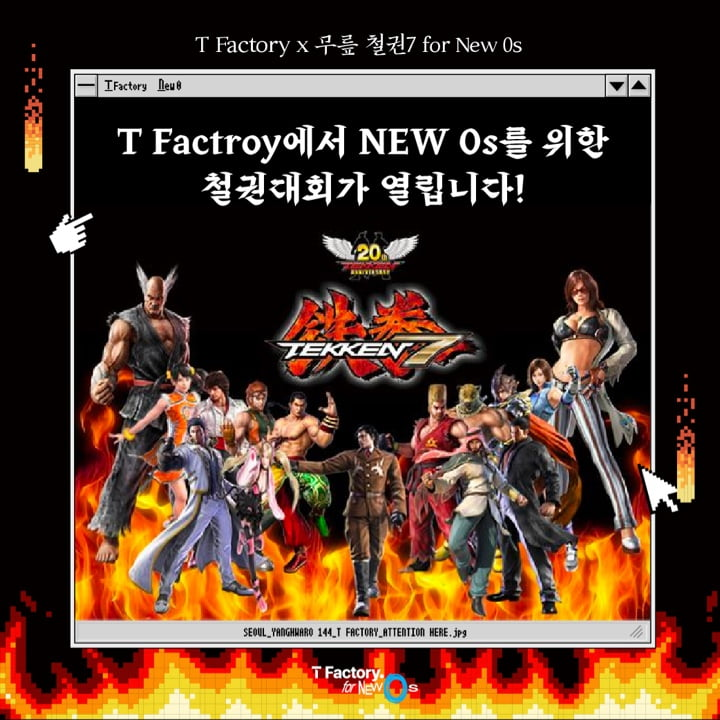
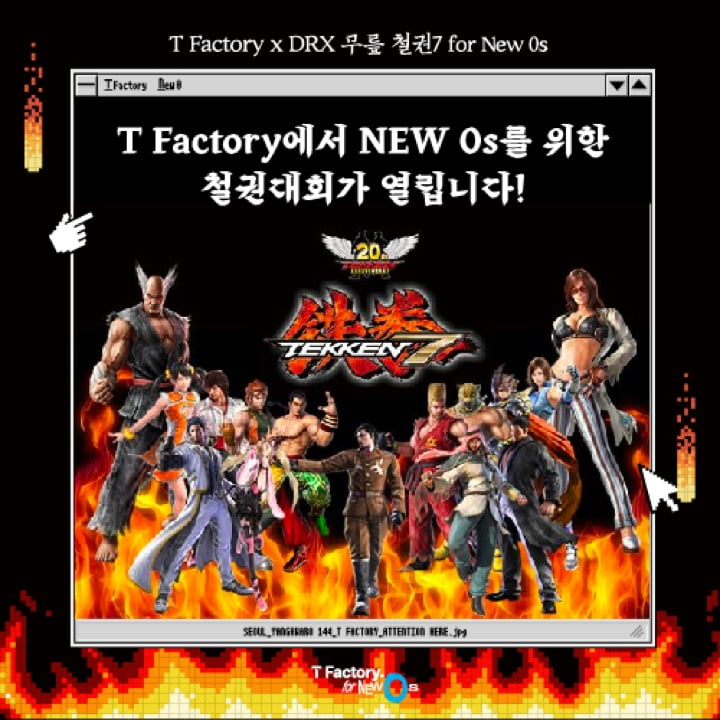
program 237, 238, 239 - 이미지 수정 program 238 - 안내사항 일부 삭제

diff --git a/src/components/product/program/Program237.vue b/src/components/product/program/Program237.vue
@@ -29,24 +29,24 @@
 				<h2 class="main-title">운영일정</h2>
 				<dl>
 					<dd style="flex-direction: column;">
-						<span class="sub_title" style="width: 100%; font-size:16px; margin-bottom: 4px;">대회 출전 선수 모집</span>
+						<span class="sub_title" style="width: 100%; font-size:20px; margin-bottom: 8px;">대회 출전 선수 모집</span>
 						<span class="desc" style="margin-left: 0; margin-bottom: 4px; font-weight: 500; color:#000;">총 32명<br>32명 중 24명 선착순 모집</span>
-						<span class="desc" style="margin-left: 0; margin-bottom: 32px;">*추가 8명은 프로급 선수로 구성되며 대진표 발표날<br>공개됩니다.</span>
+						<span class="desc" style="margin-left: 0; margin-bottom: 48px;">*추가 8명은 프로급 선수로 구성되며 대진표 발표날<br>공개됩니다.</span>
 					</dd>
 					<dd style="flex-direction: column;">
-						<span class="sub_title" style="width: 100%; font-size:16px; margin-bottom: 4px;">대회 진행 방식</span>
+						<span class="sub_title" style="width: 100%; font-size:20px; margin-bottom: 8px;">대회 진행 방식</span>
 						<span class="desc" style="margin-left: 0; margin-bottom: 4px; font-weight: 500; color: #000;">4명 8개조</span>
-						<span class="desc" style="margin-left: 0; margin-bottom: 32px;">*조별로 프로급 선수 1명씩 시드배정<br>예선 = 싱글 엘리미네이션<br>본선 = 더블 엘리미네이션</span>
+						<span class="desc" style="margin-left: 0; margin-bottom: 48px;">*조별로 프로급 선수 1명씩 시드배정<br>예선 = 싱글 엘리미네이션<br>본선 = 더블 엘리미네이션</span>
 					</dd>
 					<dd style="flex-direction: column;">
-						<span class="sub_title" style="width: 100%; font-size:16px; margin-bottom: 4px;">예선 일정</span>
+						<span class="sub_title" style="width: 100%; font-size:20px; margin-bottom: 8px;">예선 일정</span>
 						<span class="desc" style="margin-left: 0; margin-bottom: 4px; font-weight: 500; color: #000;">11월 1일(화) 오후 5시</span>
-						<span class="desc" style="margin-left: 0; margin-bottom: 32px;">사전 참가 신청한 일반인 선수 24명과 프로급 선수 8명이 예선전을 치르게 됩니다.<br>싱글 토너먼트 방식으로 8강 진출자 8명이 결정됩니다.</span>
+						<span class="desc" style="margin-left: 0; margin-bottom: 48px;">사전 참가 신청한 일반인 선수 24명과 프로급 선수 8명이 예선전을 치르게 됩니다.<br>싱글 토너먼트 방식으로 8강 진출자 8명이 결정됩니다.</span>
 					</dd>
 					<dd style="flex-direction: column;">
-						<span class="sub_title" style="width: 100%; font-size:16px; margin-bottom: 4px;">본선 일정</span>
+						<span class="sub_title" style="width: 100%; font-size:20px; margin-bottom: 8px;">본선 일정</span>
 						<span class="desc" style="margin-left: 0; margin-bottom: 4px; font-weight: 500; color: #000;">11월 2일(수) 오후 6시</span>
-						<span class="desc" style="margin-left: 0; margin-bottom: 32px;">예선을 통과한 본선 진출 8명의 선수들의 대회가<br>진행됩니다. 본선에서는 DRX 무릎 선수의 해설과<br>아프리카tv 생중계가 함께 진행됩니다.</span>
+						<span class="desc" style="margin-left: 0; margin-bottom: 48px;">예선을 통과한 본선 진출 8명의 선수들의 대회가<br>진행됩니다. 본선에서는 DRX 무릎 선수의 해설과<br>아프리카tv 생중계가 함께 진행됩니다.</span>
 					</dd>
 					<dd style="flex-direction: column;">
 						<span class="sub_title" style="width: 100%; color: #787878;">※ 우승상품 안내</span>

diff --git a/src/components/product/program/Program238.vue b/src/components/product/program/Program238.vue
@@ -123,8 +123,7 @@
 			<div class="details-inner notification" style="padding-bottom:94px;">
 				<h2 class="main-title">안내사항</h2>
 				<ul style="font-size:12px">
-					<li>※1일차 예선 참가 선수도 당첨이 되지 않으면 본선 당일 직관이 불가능 합니다.</li>
-					<li>※1일차 예선은 현장 선착순 스탠딩으로 일반 관람이 가능하며<br>현장이 넓지 않으니 혼잡할 경우 입장이 제한 될 수 있습니다. </li>
+					<li>※1일차 예선은 현장 선착순 스탠딩으로 일반 관람이 가능하며<br>현장이 넓지 않으니 혼잡할 경우 입장이 제한 될 수 있습니다.</li>
 					<li>※본 프로그램은 T Factory 홍대점을 방문하여 스마트폰으로<br>본인 확인한 경우에만 참여 가능합니다. (본인확인 가능 연령:<br>만 14세 이상)</li>
 					<li>※본 프로그램 세부 사항들은 업체 사정에 따라 별도의 안내 없이 중단 또는 변경될 수 있습니다.</li>
 				</ul>
